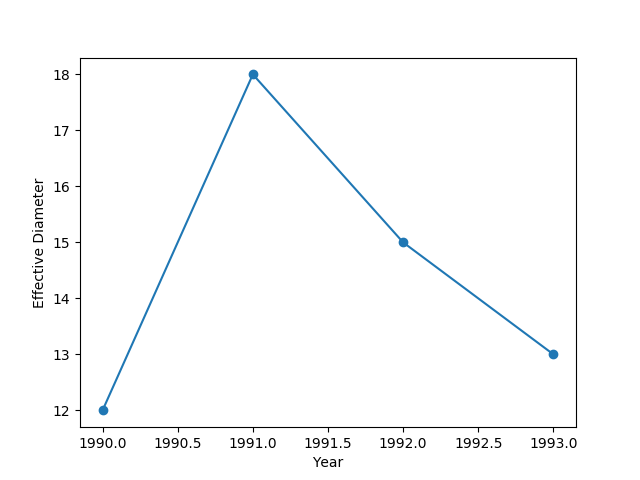
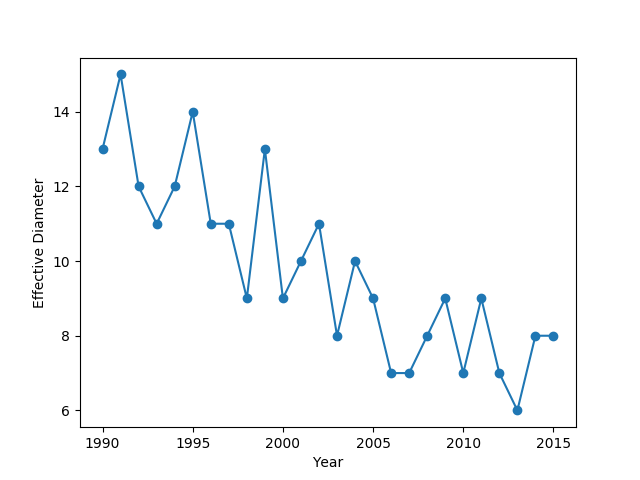
Add the analysis of physic and socialogy subject

diff --git a/uncensor_preprocess_new.py b/uncensor_preprocess_new.py
@@ -14,7 +14,8 @@ from citation_library import *
 reload(sys)
 sys.setdefaultencoding('utf-8')
  
- 
+NUM_OF_CORE = 12
+
 '''
 bioinformatics
 complex systems
@@ -67,22 +68,22 @@ neuro_total_citation = []; neuro_h_index = []; neuro_i10_index = []; neuro_g_ind
 paper_data = {}
 year_user = set([]) #element: (1950, 1), (2012, 50), (yr, id)
  
-f_profile = open("gs_profile.txt", "w")
-f_name = open("gs_name.txt", "w")
-f_year = open("gs_earliest_year.txt", "w")
-f_google_id = open("gs_google_id.txt", "w")
+f_profile = open("unprocessed_data/gs_profile.txt", "w")
+f_name = open("unprocessed_data/gs_name.txt", "w")
+f_year = open("unprocessed_data/gs_earliest_year.txt", "w")
+f_google_id = open("unprocessed_data/gs_google_id.txt", "w")
  
  
-f_h_age = open("gs_h_age.txt", "w") # h-index vs experience
-f_g_age = open("gs_g_age.txt", "w") # g-index vs experience
-f_t_age = open("gs_t_age.txt", "w") # total citation vs experience
+f_h_age = open("unprocessed_data/gs_h_age.txt", "w") # h-index vs experience
+f_g_age = open("unprocessed_data/gs_g_age.txt", "w") # g-index vs experience
+f_t_age = open("unprocessed_data/gs_t_age.txt", "w") # total citation vs experience
  
  
  
-f_title = open("gs_title.txt", "w") # academic title
-f_h_idx = open("gs_h_idx.txt", "w")
-f_g_idx = open("gs_g_idx.txt", "w")
-f_t_idx = open("gs_t_idx.txt", "w")
+f_title = open("unprocessed_data/gs_title.txt", "w") # academic title
+f_h_idx = open("unprocessed_data/gs_h_idx.txt", "w")
+f_g_idx = open("unprocessed_data/gs_g_idx.txt", "w")
+f_t_idx = open("unprocessed_data/gs_t_idx.txt", "w")
 #f_subject = open("gs_subject.txt", "w")
  
 country_list = []
@@ -102,8 +103,8 @@ for x in filename:
  
  
 # removed on Jul. 23, 2015: all authors
-        if (verified_str[0] == 'n'):
-            continue
+        # if (verified_str[0] == 'n'):
+        #     continue
  
  
 #       if (verified_str[-8:] != 'duke.edu'):
@@ -210,18 +211,12 @@ for x in filename:
             f_profile.write('1 ')
         else:
             f_profile.write('0 ')
-
+ 
         if (verified_str.find("phys") >= 0 or affilation_str.find("physics") >= 0 or has_physics_keyword(keyword_str) == 1 ):
-            f_profile.write('1')
-        else:
-            f_profile.write('0')
-
-        ##Socialogy
-        if (verified_str.find("soc") >= 0 or affilation_str.find("physics") >= 0 or has_physics_keyword(keyword_str) == 1 ):
             f_profile.write('1\n')
         else:
             f_profile.write('0\n')
-
+ 
         total=total+1
  
 f_profile.close()
@@ -238,13 +233,13 @@ print '####'
  
 #year_summary(year_user)
  
-compute_collaboration_graph = 0
+compute_collaboration_graph = 1
  
 if (compute_collaboration_graph == 1):
     print datetime.now()
-    f_node_list = open("gs_graph_nodes.txt", "w")
-    f_country_node_list = open("gs_country_graph_nodes.txt", "w")
-    # f_yr_node_list = open("gs_graph_yr_nodes.txt", "w")
+    f_node_list = open("unprocessed_data/gs_graph_nodes.txt", "w")
+    f_country_node_list = open("unprocessed_data/gs_country_graph_nodes.txt", "w")
+    f_yr_node_list = open("unprocessed_data/gs_graph_yr_nodes.txt", "w")
  
     for i in range(0, total):
         f_node_list.write(str(i)+"\n")
@@ -255,27 +250,17 @@ if (compute_collaboration_graph == 1):
     f_country_node_list.close()
     #f_yr_node_list.close()
      
-    f_weighted_graph = open("gs_weighted_collaboration_graph.txt", "w")
-    f_graph = open("gs_collaboration_graph.txt", "w")
-    f_yr_graph = open("gs_collaboration_yearly_graph.txt", "w")
+    f_weighted_graph = open("unprocessed_data/gs_weighted_collaboration_graph.txt", "w")
+    f_graph = open("unprocessed_data/gs_collaboration_graph.txt", "w")
+    f_yr_graph = open("unprocessed_data/gs_collaboration_yearly_graph.txt", "w")
  
     cmdargs = str(sys.argv)
     if (len(sys.argv) == 2):
-        if (sys.argv[1] == '1'):
-            f_graph = open("gs_collaboration_graph1.txt", "w")
-            f_yr_graph = open("gs_collaboration_yearly_graph1.txt", "w")
-        elif (sys.argv[1] == '2'):  
-            f_graph = open("gs_collaboration_graph2.txt", "w")
-            f_yr_graph = open("gs_collaboration_yearly_graph2.txt", "w")
-        elif (sys.argv[1] == '3'):             
-            f_graph = open("gs_collaboration_graph3.txt", "w")
-            f_yr_graph = open("gs_collaboration_yearly_graph3.txt", "w")
-        elif (sys.argv[1] == '0'): 
-            f_graph = open("gs_collaboration_graph0.txt", "w")
-            f_yr_graph = open("gs_collaboration_yearly_graph0.txt", "w")
+        f_graph = open("unprocessed_data/gs_collaboration_graph" + sys.argv[1] + ".txt", "w")
+        f_yr_graph = open("unprocessed_data/gs_collaboration_yearly_graph" + sys.argv[1] + ".txt", "w")
     else:
-        f_yr_graph = open("gs_collaboration_yearly_graph.txt", "w")
-        f_graph = open("gs_collaboration_graph.txt", "w")
+        f_yr_graph = open("unprocessed_data/gs_collaboration_yearly_graph.txt", "w")
+        f_graph = open("unprocessed_data/gs_collaboration_graph.txt", "w")
  
     #print 'Number of arguments:', len(sys.argv), 'arguments.'
     #print 'Argument List:', str(sys.argv)
@@ -286,21 +271,10 @@ if (compute_collaboration_graph == 1):
     for i in range(0, total):
         #f_weighted_graph = open("gs_weighted_collaboration_graph.txt", "a")
         if (len(sys.argv) == 2):
-            if (i % 4 != int(sys.argv[1])):
+            if (i % NUM_OF_CORE != int(sys.argv[1])):
                 continue
-            if (sys.argv[1] == '1'):
-                f_graph = open("gs_collaboration_graph1.txt", "a")
-                f_yr_graph = open("gs_collaboration_yearly_graph1.txt", "a")
-            elif (sys.argv[1] == '2'):
-                f_graph = open("gs_collaboration_graph2.txt", "a")
-                f_yr_graph = open("gs_collaboration_yearly_graph2.txt", "a")
-            elif (sys.argv[1] == '3'):
-                f_graph = open("gs_collaboration_graph3.txt", "a")
-                f_yr_graph = open("gs_collaboration_yearly_graph3.txt", "a")
-            elif (sys.argv[1] == '0'):
-                f_graph = open("gs_collaboration_graph0.txt", "a")
-                f_yr_graph = open("gs_collaboration_yearly_graph0.txt", "a")
- 
+            f_graph = open("unprocessed_data/gs_collaboration_graph" + sys.argv[1] + ".txt", "a")
+            f_yr_graph = open("unprocessed_data/gs_collaboration_yearly_graph" + sys.argv[1] + ".txt", "a")
         else:
             f_yr_graph = open("unprocessed_data/gs_collaboration_yearly_graph.txt", "a")
             f_graph = open("unprocessed_data/gs_collaboration_graph.txt", "a")

diff --git a/citation_subject_graph_analysis.py b/citation_subject_graph_analysis.py
@@ -49,6 +49,9 @@ def subset_graph_metrics(G, node_list, meta_info):
 	elif (meta_info == 5): # bio
 		numpy.savetxt('result_bio_deg_cdf.txt', get_per_from_seq(sorted_deg), fmt = "%.2f")
 		numpy.savetxt('result_bio_cc_cdf.txt', get_per_from_seq(sorted_cc), fmt = "%.2f")
+	elif (meta_info == 6):
+		numpy.savetxt('result_phy_deg_cdf.txt', get_per_from_seq(sorted_deg), fmt = "%.2f")
+		numpy.savetxt('result_phy_cc_cdf.txt', get_per_from_seq(sorted_cc), fmt = "%.2f")
 	return
 
 
@@ -82,7 +85,7 @@ graph_metrics(G_all)
 # gs_profile
 # 58755 86 6 8 0 1
 
-for current_subject in range(4, 6):
+for current_subject in range(4, 7):
 	print current_subject, ":",
 	
 	curr_node_list = []
@@ -94,7 +97,7 @@ for current_subject in range(4, 6):
 
 	subset_graph_metrics(G_all, curr_node_list, current_subject)
 
-all_citation = []; all_h_idx = []; all_g_idx = []; cs_citation = []; cs_h_idx = []; cs_g_idx = []; bio_citation = []; bio_h_idx = []; bio_g_idx = [];
+all_citation = []; all_h_idx = []; all_g_idx = []; cs_citation = []; cs_h_idx = []; cs_g_idx = []; bio_citation = []; bio_h_idx = []; bio_g_idx = []; phy_citation = []; phy_h_idx = []; phy_g_idx = [];
 for ii in range(0, len(all_nodes)):
 	xx = all_profiles[ii]
 	yy = xx.split(" ")
@@ -104,6 +107,8 @@ for ii in range(0, len(all_nodes)):
 		cs_citation.append(tmp_citation); cs_h_idx.append(tmp_h_idx); cs_g_idx.append(tmp_g_idx)
 	if (int(yy[5]) == 1):
 		bio_citation.append(tmp_citation); bio_h_idx.append(tmp_h_idx); bio_g_idx.append(tmp_g_idx)
+	if (int(yy[6]) == 1):
+		phy_citation.append(tmp_citation); phy_h_idx.append(tmp_h_idx); phy_g_idx.append(tmp_g_idx)
 
 numpy.savetxt('result_all_citation_cdf.txt', get_per_from_seq(sorted(all_citation)), fmt = "%.2f")
 numpy.savetxt('result_all_h_idx_cdf.txt', get_per_from_seq(sorted(all_h_idx)), fmt = "%.2f")
@@ -117,10 +122,15 @@ numpy.savetxt('result_bio_citation_cdf.txt', get_per_from_seq(sorted(bio_citatio
 numpy.savetxt('result_bio_h_idx_cdf.txt', get_per_from_seq(sorted(bio_h_idx)), fmt = "%.2f")
 numpy.savetxt('result_bio_g_idx_cdf.txt', get_per_from_seq(sorted(bio_g_idx)), fmt = "%.2f")
 
+numpy.savetxt('result_phy_citation_cdf.txt', get_per_from_seq(sorted(phy_citation)), fmt = "%.2f")
+numpy.savetxt('result_phy_h_idx_cdf.txt', get_per_from_seq(sorted(phy_h_idx)), fmt = "%.2f")
+numpy.savetxt('result_phy_g_idx_cdf.txt', get_per_from_seq(sorted(phy_g_idx)), fmt = "%.2f")
+
 		
 print 'Average (t/h/g): ', numpy.average(all_citation), numpy.average(all_h_idx), numpy.average(all_g_idx)
 print 'cs Average (t/h/g): ', numpy.average(cs_citation), numpy.average(cs_h_idx), numpy.average(cs_g_idx)
 print 'Bio Average (t/h/g): ', numpy.average(bio_citation), numpy.average(bio_h_idx), numpy.average(bio_g_idx)
+print 'Physics Average (t/h/g): ', numpy.average(phy_citation), numpy.average(phy_h_idx), numpy.average(phy_g_idx)
 '''
 print 'STD (t/h/g): ', numpy.std(all_citation), numpy.std(all_h_idx), numpy.std(all_g_idx)
 print 'cs STD (t/h/g): ', numpy.std(cs_citation), numpy.std(cs_h_idx), numpy.std(cs_g_idx)
@@ -129,6 +139,6 @@ print 'Bio STD (t/h/g): ', numpy.std(bio_citation), numpy.std(bio_h_idx), numpy.
 print 'Median (t/h/g): ', numpy.median(all_citation), numpy.median(all_h_idx), numpy.median(all_g_idx)
 print 'cs Median (t/h/g): ', numpy.median(cs_citation), numpy.median(cs_h_idx), numpy.median(cs_g_idx)	
 print 'Bio Median (t/h/g): ', numpy.median(bio_citation), numpy.median(bio_h_idx), numpy.median(bio_g_idx)
-
+print 'Physics Median (t/h/g): ', numpy.median(phy_citation), numpy.median(phy_h_idx), numpy.median(phy_g_idx)
 
 

diff --git a/uncensor_citation_static_graph_analysis.py b/uncensor_citation_static_graph_analysis.py
@@ -45,18 +45,18 @@ def subset_graph_metrics(G, pagerank_dict, node_list):
     print len(node_list), median_deg, '%.3f' % avg_deg, '%.3f' % avg_cc, numpy.average(pagerank_values)
     return
 
-f_nodes = open("processed_data/gs_graph_nodes.txt", "r")
-f_edges = open("processed_data/gs_collaboration_graph.txt", "r")
+f_nodes = open("gs_graph_nodes.txt", "r")
+f_edges = open("gs_collaboration_graph.txt", "r")
 
 
 f_country_nodes = open("gs_country_graph_nodes.txt", "r")
-f_country_nodes = open("processed_data/gs_title.txt", "r")
-f_profile_nodes = open("processed_data/gs_profile.txt", "r")
+f_country_nodes = open("gs_title.txt", "r")
+f_profile_nodes = open("gs_profile.txt", "r")
 
 
 
-#f_yr_nodes = open("gs_graph_yr_nodes.txt", "r")
-#f_yr_edges = open("gs_collaboration_yearly_graph.txt", "r")
+f_yr_nodes = open("gs_graph_yr_nodes.txt", "r")
+f_yr_edges = open("gs_collaboration_yearly_graph.txt", "r")
 
 all_nodes = f_nodes.read().split("\n"); all_nodes = all_nodes[:-1]
 all_edges = f_edges.read().split("\n"); all_edges = all_edges[:-1]
@@ -138,7 +138,7 @@ print '== Gender =='
 
 # please run: "python citation_name_to_gender.py > gs_gender.txt &" first
 
-f_gender_nodes = open("processed_data/gs_gender.txt", "r")
+f_gender_nodes = open("gs_gender.txt", "r")
 all_gender = f_gender_nodes.read().split("\n"); all_gender = all_gender[:-1]
 current_idx = 0
 male_IDs=[]; male_deg = []; male_pagerank=[]; male_total = []; male_hidx = []; male_gidx = [];
@@ -191,9 +191,9 @@ print '-> Avg. Total= %.2f' % numpy.average(all_phy_total), 'Avg. H-idx= %.2f' %
 
 
 #pagerank_seq = pagerank_dict.values()
-f_output_all_hidx = open("all_hidx.txt", "w")
-f_output_all_gidx = open("all_gidx.txt", "w")
-f_output_all_pagerank = open("all_pagerank.txt", "w")
+f_output_all_hidx = open("unprocessed_data/all_hidx.txt", "w")
+f_output_all_gidx = open("unprocessed_data/all_gidx.txt", "w")
+f_output_all_pagerank = open("unprocessed_data/all_pagerank.txt", "w")
 for ii in range(0, len(all_hidx)):
     f_output_all_hidx.write(str(all_hidx[ii])+'\n')
     f_output_all_gidx.write(str(all_gidx[ii])+'\n')

diff --git a/citation_dynamic_graph_analysis.py b/citation_dynamic_graph_analysis.py
@@ -29,8 +29,8 @@ def graph_metrics(G):
 
 
 min_year = 1990
-# max_year = 2015
-max_year = 1993
+max_year = 2015
+
 
 
 f_dyn =open("processed_data/gs_collaboration_yearly_graph.txt", "r")
@@ -129,6 +129,8 @@ for current_yr in range(min_year, max_year+1):
 print num_node_seq
 print num_edge_seq
 print per_giant_seq
+
+print effective_diamater_seq
 if (save_figures):
     #The fraction of nodes that are part of the giant connected component over time
 
@@ -185,20 +187,20 @@ graph_metrics(G_all)
 
 
 
-##Analysis of seperate year
-for current_yr in range(min_year, max_year+1):
-	print current_yr, ":",
-	G_tmp = Graph()
-	for x in all_yr_nodes:
-		y=x.split(" ")
-		#print y
-		if (int(y[0]) == current_yr):
-			G_tmp.add_node(int(y[1]))
-	for x in all_yr_edges:
-		y=x.split(",")
-		if (int(y[0]) == current_yr):
-			G_tmp.add_edge(int(y[1]), int(y[2]))
-	graph_metrics(G_tmp)
+# ##Analysis of seperate year
+# for current_yr in range(min_year, max_year+1):
+# 	print current_yr, ":",
+# 	G_tmp = Graph()
+# 	for x in all_yr_nodes:
+# 		y=x.split(" ")
+# 		#print y
+# 		if (int(y[0]) == current_yr):
+# 			G_tmp.add_node(int(y[1]))
+# 	for x in all_yr_edges:
+# 		y=x.split(",")
+# 		if (int(y[0]) == current_yr):
+# 			G_tmp.add_edge(int(y[1]), int(y[2]))
+# 	graph_metrics(G_tmp)
 
 #for i in range(0, max_node_id+1):
 	##all_domain[i] = 1

diff --git a/lll.py b/lll.py
@@ -1,0 +1,12 @@
+import matplotlib
+matplotlib.use('TkAgg')
+import matplotlib.pyplot as plt
+
+
+s = [0.5516275686488452, 0.5707388144408491, 0.5958236951014177, 0.6183789937676062, 0.6488288434490966, 0.6816002603677694, 0.749638790961105, 0.7990474661529405,0.8537432123675855, 0.9155352933652493, 0.9837366990030546, 1.0633814219953581, 1.1506333059420248, 1.2390880028013567, 1.3427121771217712, 1.4645051654843146,1.5742300223680652, 1.6855057697745501, 1.8068598041342168, 1.9471740982675376, 2.1065314473923222, 2.2796744162513596, 2.5002428020236445, 2.775123789528642, 3.149757293218628, 3.286229780616022]
+plt.plot(range(1990,2016), s)
+plt.xlabel("year")
+plt.ylabel("density = edges/nodes")
+plt.title("density ")
+plt.savefig("density.png")
+

diff --git a/run_task.py b/run_task.py
@@ -1,0 +1,25 @@
+import multiprocessing
+import time
+import os
+import sys
+
+def func(total, id):
+    os.system("python uncensor_preprocess_new.py " + str(id) " " + str(total))
+
+if __name__ == "__main__":
+    if len(sys.argv) != 2:
+        print ("Format: python run_task.py number_of_core")
+        return
+    number = int(sys.argv[1])
+    pool = (processes = number)
+    
+    pool = []
+    for id in range(number):
+        p = multiprocessing.Process(func, (number, id))
+        pool.append(p)
+        p.start()
+
+    print "Mark~ Mark~ Mark~~~~~~~~~~~~~~~~~~~~~~"
+    pool.close()
+    pool.join()    # behind close() or terminate()
+    print "Sub-process(es) done."
